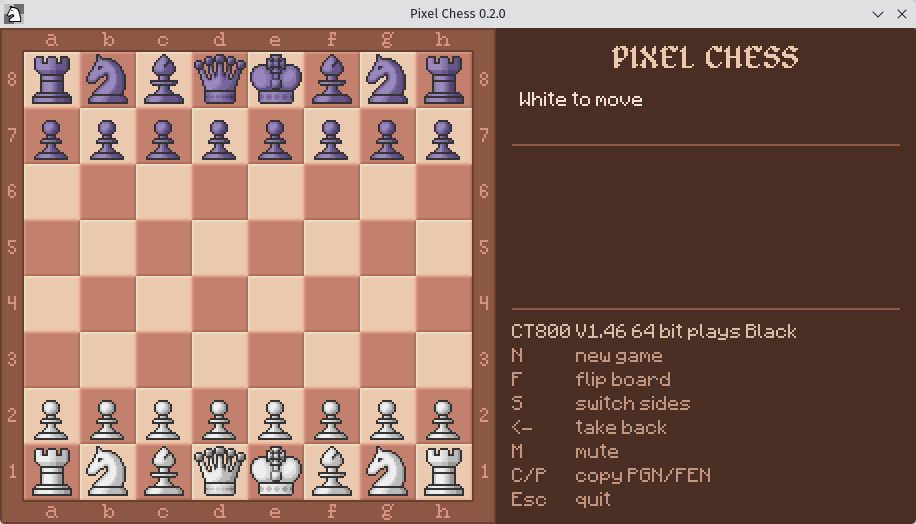
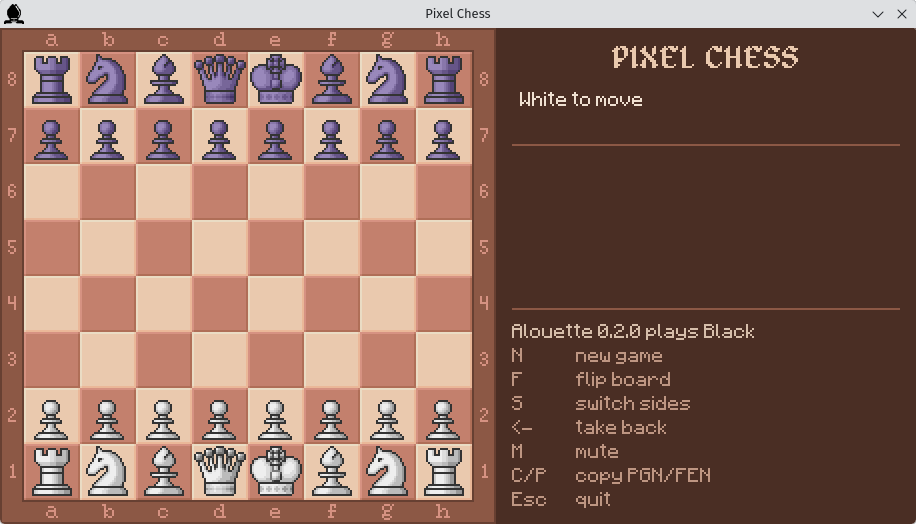
Add m484-classic, m484-gold and m484-slate themes

Changed region(s): [[0.5502, 0.6107, 0.8865, 0.6718], [0.4585, 0.0, 0.5502, 0.0305], [0.0, 0.0, 0.0306, 0.0611]]

diff --git a/README.md b/README.md
@@ -52,7 +52,7 @@ enabled=1
 uci=0
 ```
 
-- `theme`: one of `bftc` (default), `deepbasic`, `fritz`, `lanea`, `lucas`, `m484`, `owl`, `smirf`, `warlord`
+- `theme`: one of `bftc` (default), `deepbasic`, `fritz`, `lanea`, `lucas`, `m484`, `m484-classic`, `m484-gold`, `m484-slate`, `owl`, `smirf`, `warlord`
 - `scale`: the window size factor, `1` (default) for the native size. With `2`, every pixel is drawn as a 2×2 square. If the window does not fit on the screen, the largest scale that fits is used instead.
 - `path`: the executable of a UCI engine, absolute or relative to the directory of `pixelchess`. By default, the bundled [Alouette](engine/README.md) engine, built by `make`. Leave it empty to have both sides played by humans.
 - `movetime`: the engine's thinking time per move, in milliseconds (default `1000`).
@@ -99,7 +99,7 @@ On the command line, a relative engine path is resolved from the current directo
   - `fritz`: pieces and board reproducing those of the Fritz chess program (ChessBase)
   - `lanea`: [Boardgame tiles](https://opengameart.org/content/boardgame-tiles) by Lanea Zimmerman
   - `lucas`: [Pixel chess pieces](https://opengameart.org/content/pixel-chess-pieces) by Lucas312
-  - `m484`: [M484 chess set](https://opengameart.org/content/m484-chess-set) by Master484 (CC-BY 4.0 / OGA-BY 4.0)
+  - `m484`, `m484-classic`, `m484-gold`, `m484-slate`: [M484 chess set](https://opengameart.org/content/m484-chess-set) by Master484 (CC-BY 4.0 / OGA-BY 4.0)
   - `owl`: pieces from the *OWL Chess* demo program by Borland International
   - `smirf`: [pieces](https://www.chessvariants.com/contests/10/crc.html) by Reinhard Scharnagl
   - `warlord`: pieces from the [Warlord](https://chessprogramming.org/Warlord) chess program by William H. Rogers
